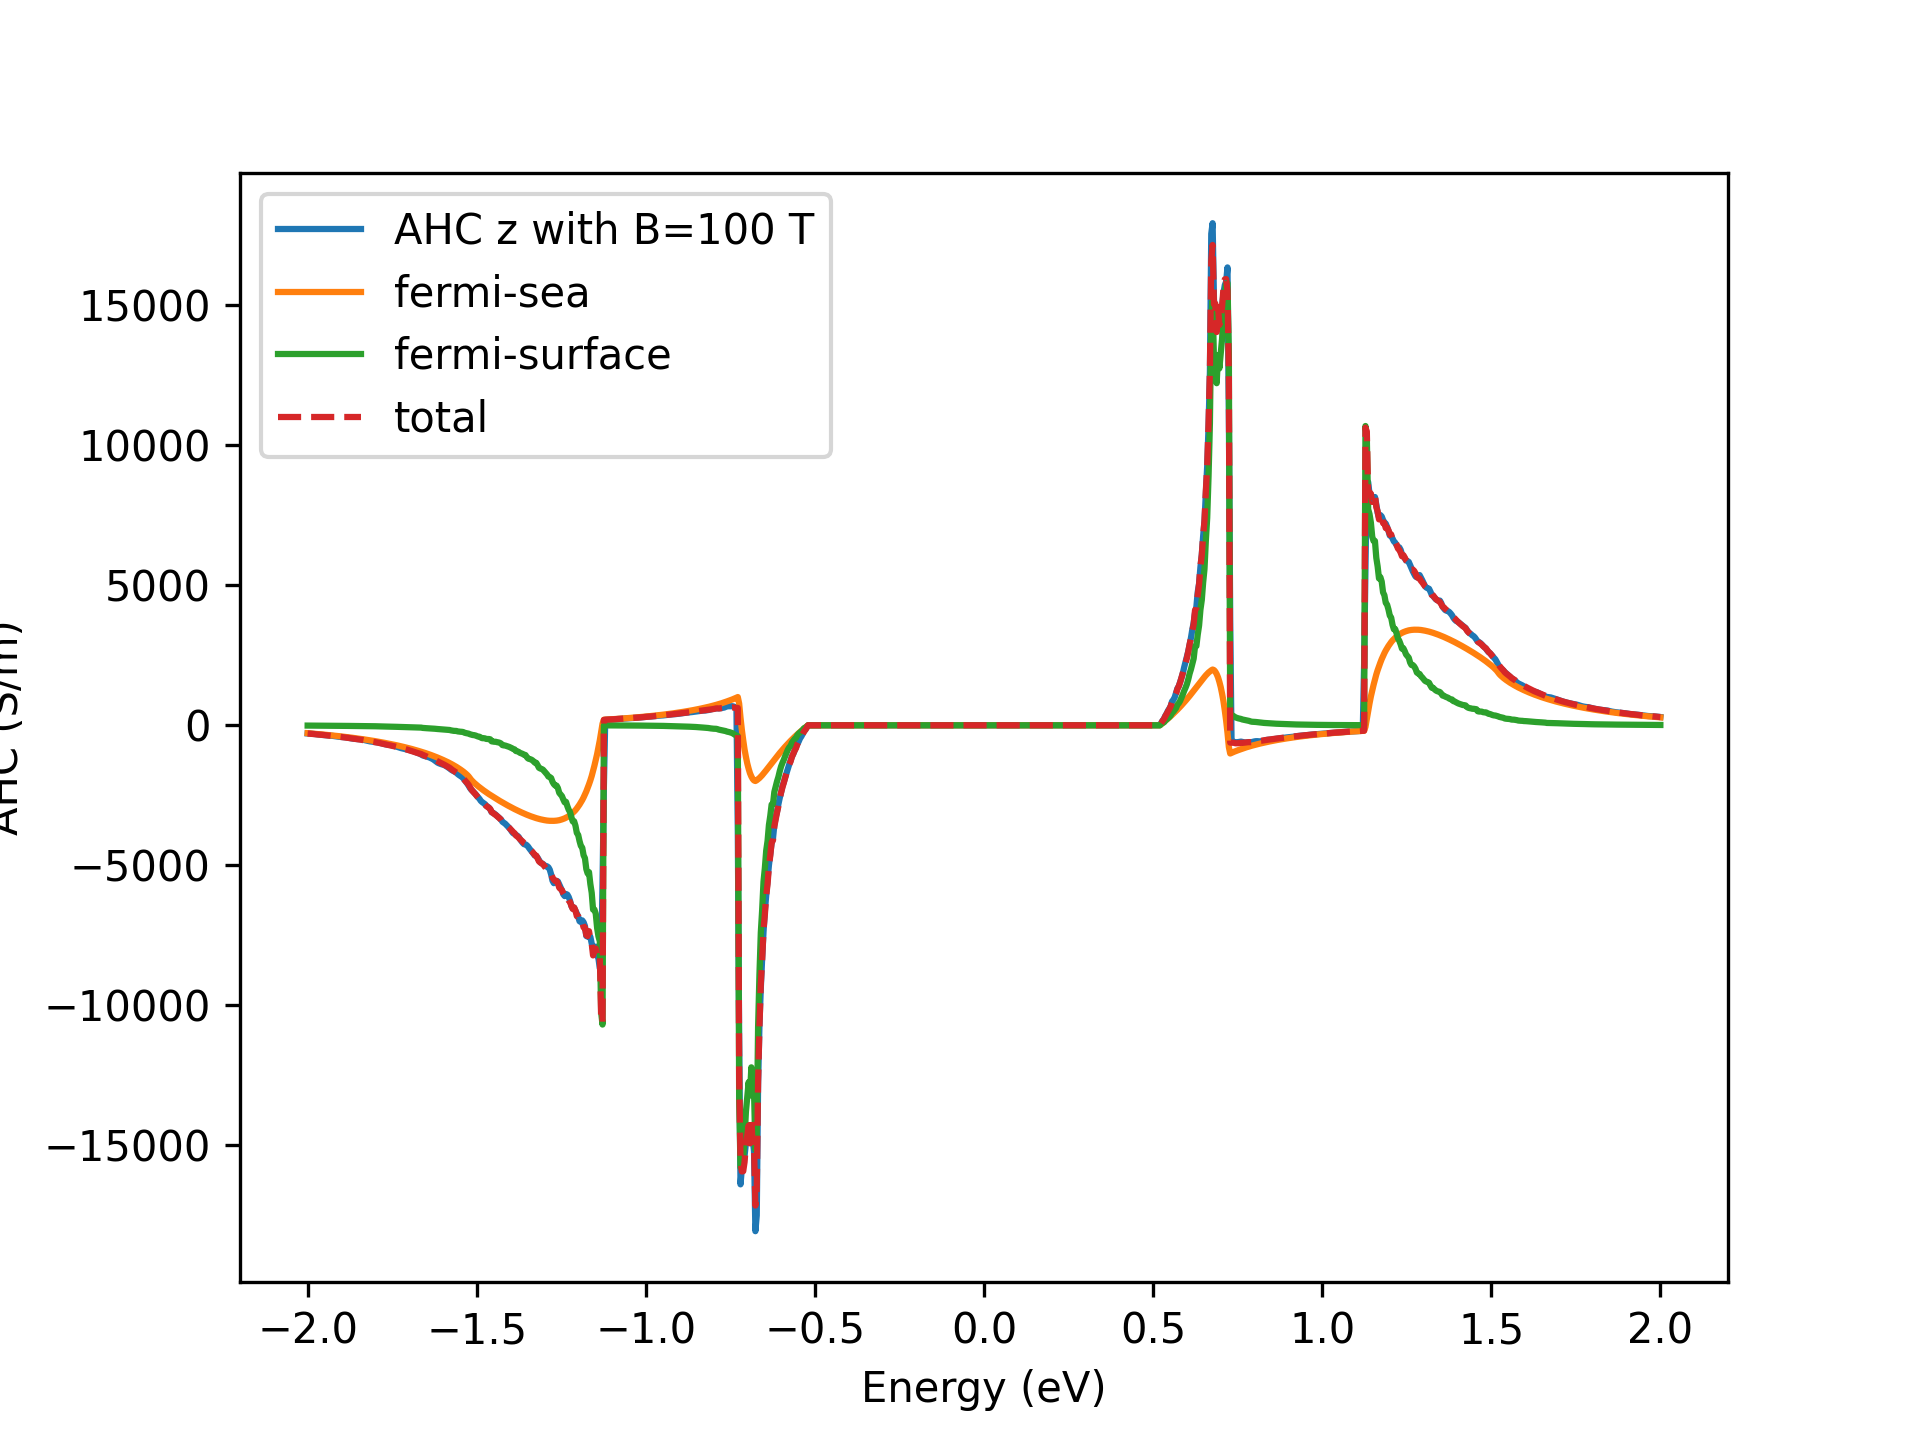
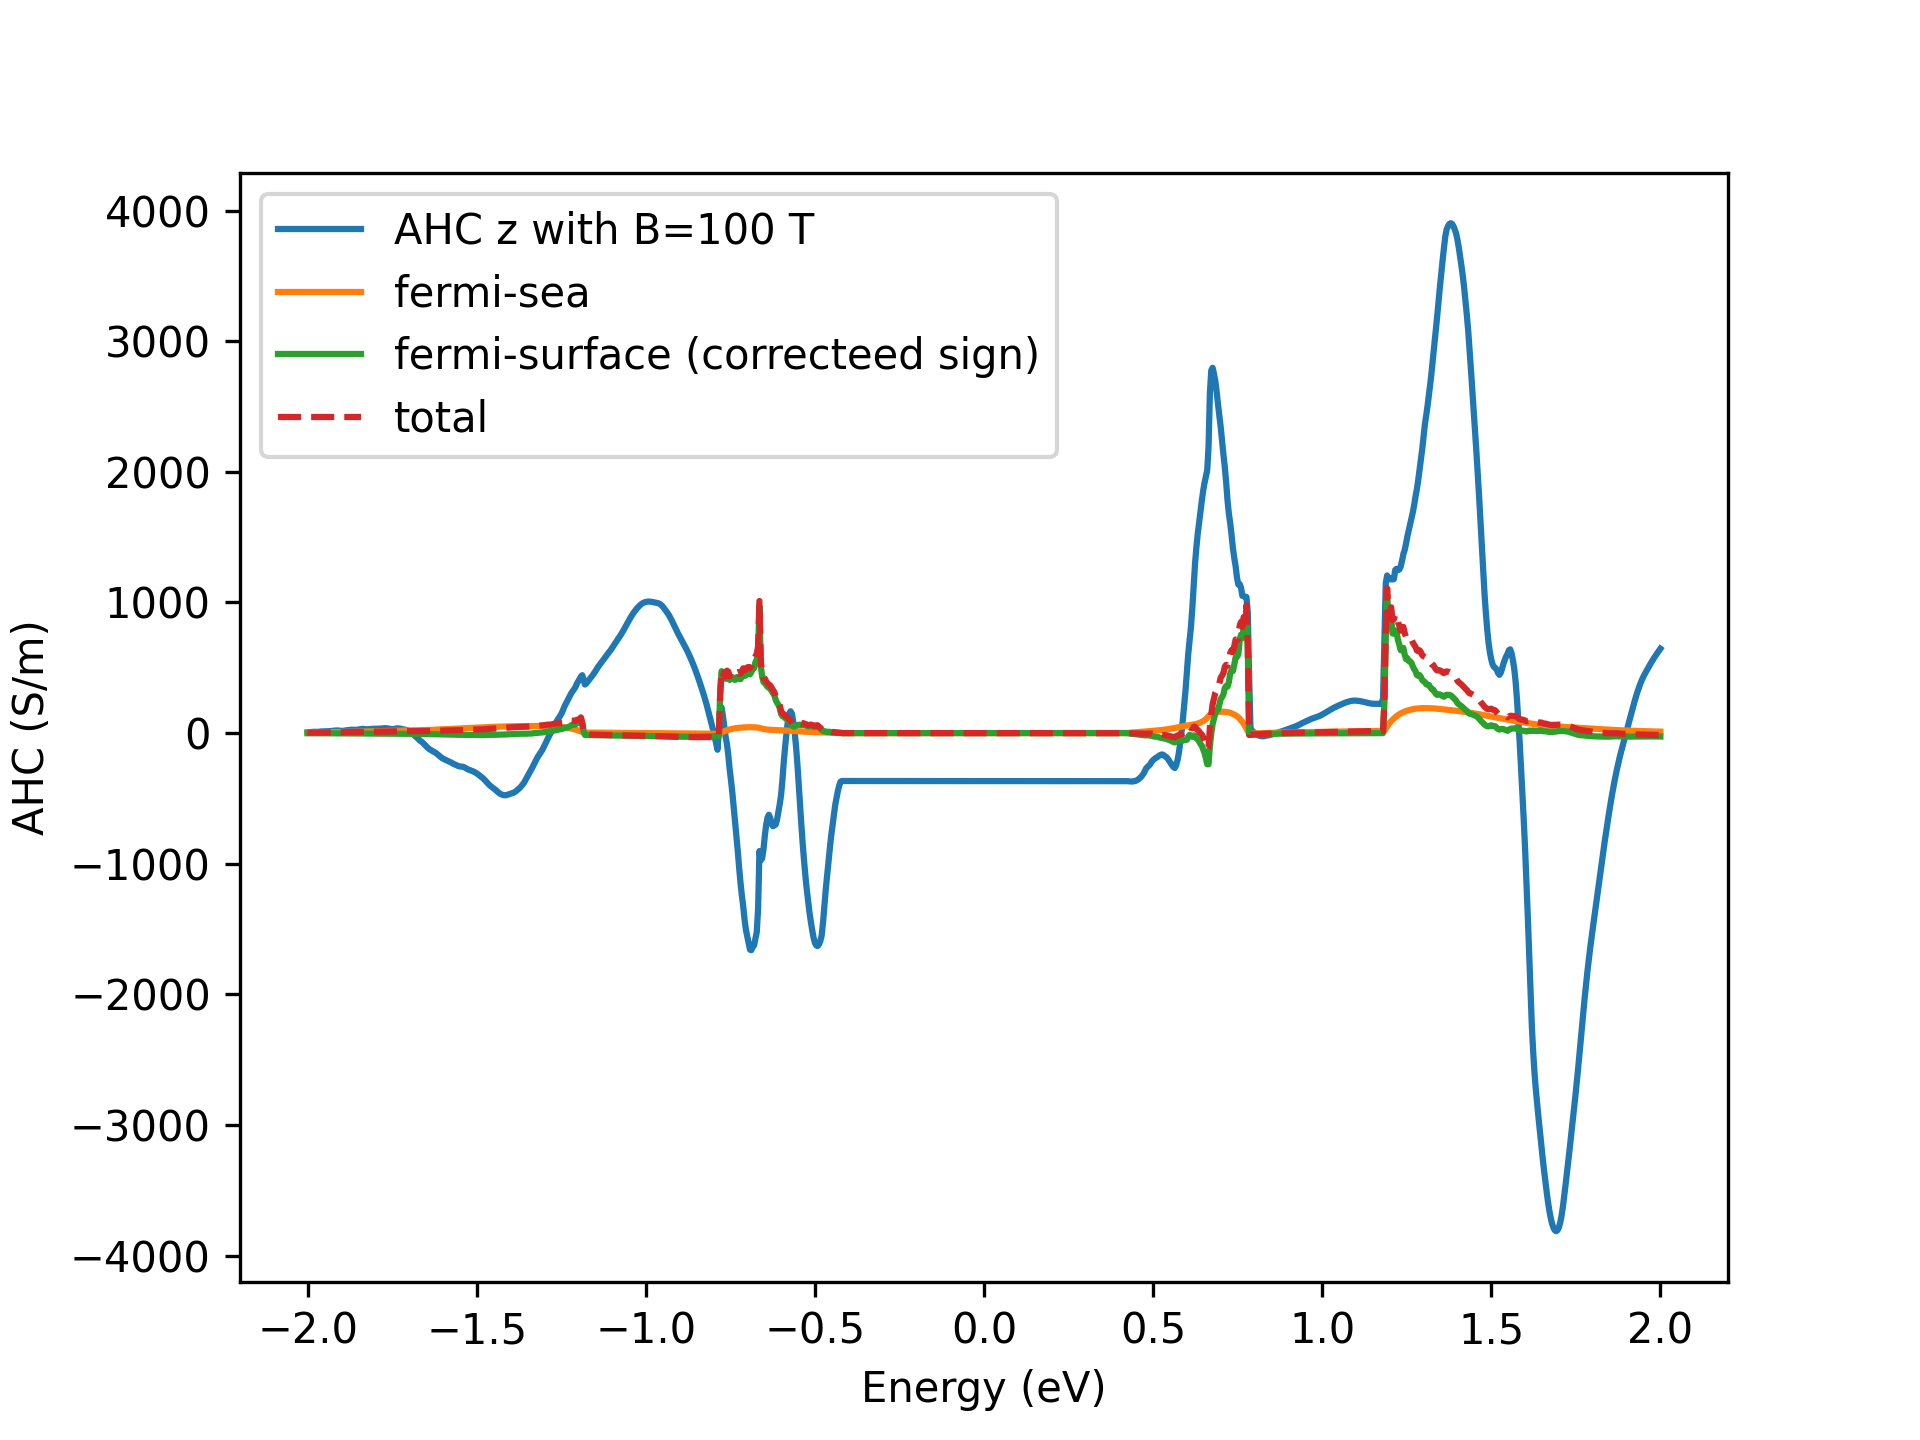
tests against finite field

diff --git a/examples/LFAHE/check_LFAHE_vs_FiniteField.py b/examples/LFAHE/check_LFAHE_vs_FiniteField.py
@@ -1,9 +1,8 @@
 from matplotlib import pyplot as plt
 import ray
 from wannierberri.calculators.static import LFAHE_spin_fsea, AHC_Zeeman_spin, AHC
-from wannierberri import run
+from wannierberri import run, symmetry
 from wannierberri.grid import Grid
-from wannierberri.system import System_R
 import numpy as np
 from wannierberri import factors
 from copy import deepcopy
@@ -11,82 +10,55 @@ from wannierberri.logging import configure_logging
 configure_logging(loglevel="INFO")
 print(f"factor_spin: {factors.factor_spin}")
 ray.init(num_cpus=16)
+symmetry = True
+
+from wannierberri.models import Haldane_ptb_double
 
 
-
-def Haldane_ptb_double(delta=0.2, hop1=-1.0, hop2=0.15, phi=np.pi / 2, soc_term=0):
-    """same as :func:`~wannierberri.models.Haldane_tbm`, but uses `PythTB <http://www.physics.rutgers.edu/pythtb/>`__
-
-    Notes
-    -----
-    PythTB should be installed to use this (`pip install pythtb`)
-    """
-    import pythtb
-    lat = [[1.0, 0.0], [0.5, np.sqrt(3.0) / 2.0]]
-    orb = [[1. / 3., 1. / 3.], [1. / 3., 1. / 3.], [2. / 3., 2. / 3.], [2. / 3., 2. / 3.]]
-    lattice = pythtb.Lattice(lat_vecs=lat, orb_vecs=orb, periodic_dirs=[0, 1])
-    my_model = pythtb.TBModel(lattice)
-    delta = 0.2
-    t2 = hop2 * np.exp(1.j * phi)
-    t2c = t2.conjugate()
-
-    my_model.set_hop(soc_term, 0, 1, [0, 0])
-    my_model.set_hop(soc_term, 2, 3, [0, 0])
-
-    for i, _t2 in enumerate([t2, t2c]):
-        _t2c = _t2.conjugate()
-        my_model.set_onsite([-delta, -delta, delta, delta])
-        my_model.set_hop(hop1, 0 + i, 2 + i, [0, 0])
-        my_model.set_hop(hop1, 2 + i, 0 + i, [1, 0])
-        my_model.set_hop(hop1, 2 + i, 0 + i, [0, 1])
-        my_model.set_hop(_t2, 0 + i, 0 + i, [1, 0])
-        my_model.set_hop(_t2, 2 + i, 2 + i, [1, -1])
-        my_model.set_hop(_t2, 2 + i, 2 + i, [0, 1])
-        my_model.set_hop(_t2c, 2 + i, 2 + i, [1, 0])
-        my_model.set_hop(_t2c, 0 + i, 0 + i, [1, -1])
-        my_model.set_hop(_t2c, 0 + i, 0 + i, [0, 1])
-
-    return my_model
-
-
-model = Haldane_ptb_double(delta=0.2, hop1=-1.0, hop2=0.15, phi=np.pi / 2, soc_term=0.5)
-system = System_R.from_pythtb(model)
-system.set_spin_eigenstates([1, -1, 1, -1])
-system.set_pointgroup(["C3z"])
-
+system = Haldane_ptb_double(delta=0.2, hop1=-1.0, hop2=0.15, phi=np.pi / 2, soc_term=0.3)
 B_tesla = 100
 
 system_magnetic = deepcopy(system)
 system_magnetic.add_Zeemann_spin(B=np.array([0, 0, B_tesla]))
 EFermi = np.linspace(-2, 2, 1001)
 kwargs = dict(Efermi=EFermi, tetra=True)
+kwargs_ext = dict(kwargs_formula=dict(internal_terms=False, external_terms=True), **kwargs)
+kwargs_int = dict(kwargs_formula=dict(internal_terms=True, external_terms=False), **kwargs)
 grid = Grid(system, length=100, NKFFT=(6, 6, 1))
 
 
 calculators_mag = {}
 calculators_nomag = {}
-calculators_mag["AHC"] = AHC(**kwargs)
-calculators_nomag["LFAHE_spin_fsea"] = LFAHE_spin_fsea(**kwargs)
-calculators_nomag["AHC_Zeeman_spin"] = AHC_Zeeman_spin(**kwargs)
+calculators_mag["AHC_int"] = AHC(**kwargs_int)
+calculators_mag["AHC_ext"] = AHC(**kwargs_ext)
+calculators_nomag["LFAHE_spin_fsea_int"] = LFAHE_spin_fsea(**kwargs_int)
+calculators_nomag["LFAHE_spin_fsea_ext"] = LFAHE_spin_fsea(**kwargs_ext)
 
-result_non_magnetic = run(system, grid, calculators=calculators_nomag)
-result_magnetic = run(system_magnetic, grid, calculators=calculators_mag)
+calculators_nomag["AHC_Zeeman_spin_int"] = AHC_Zeeman_spin(**kwargs_int)
+calculators_nomag["AHC_Zeeman_spin_ext"] = AHC_Zeeman_spin(**kwargs_ext)
 
-ahc_Z_fsurf = -result_non_magnetic.results["AHC_Zeeman_spin"].data[:, 2, 2] * B_tesla
-ahc_Z_fsea = result_non_magnetic.results["LFAHE_spin_fsea"].data[:, 2, 2] * B_tesla
-AHC_finiteB = result_magnetic.results["AHC"].data[:, 2]
-
-
+result_non_magnetic = run(system, grid, calculators=calculators_nomag).results
+result_magnetic = run(system_magnetic, grid, calculators=calculators_mag).results
 
 
-plt.plot(EFermi, AHC_finiteB, label=f"AHC z with B={B_tesla} T")
-plt.plot(EFermi, ahc_Z_fsea, label="fermi-sea")
-plt.plot(EFermi, ahc_Z_fsurf, label="fermi-surface (correcteed sign)")
-plt.plot(EFermi, (ahc_Z_fsurf + ahc_Z_fsea), label="total", linestyle="--")
-plt.legend()
-plt.xlabel("Energy (eV)")
-plt.ylabel("AHC (S/m)")
-plt.legend()
 
-plt.savefig("LFAHE_vs_FiniteField.png", dpi=300)
+fig, axes = plt.subplots(2, 1, figsize=(8, 6))
+
+correct_sign_AHC_Z = -1
+
+for ax, term in zip(axes, ["int", "ext"]):
+    ahc_Z_fsurf = correct_sign_AHC_Z * result_non_magnetic[f"AHC_Zeeman_spin_{term}"].data[:, 2, 2] * B_tesla
+    ahc_Z_fsea = result_non_magnetic[f"LFAHE_spin_fsea_{term}"].data[:, 2, 2] * B_tesla
+    AHC_finiteB = result_magnetic[f"AHC_{term}"].data[:, 2]
+    ax.plot(EFermi, AHC_finiteB, label=f"AHC_{term} with B={B_tesla} T")
+    ax.plot(EFermi, ahc_Z_fsea, label=f"fermi-sea {term}")  
+    ax.plot(EFermi, ahc_Z_fsurf, label=f"fermi-surface {term} (corrected sign)")
+    ax.plot(EFermi, (ahc_Z_fsurf + ahc_Z_fsea), label=f"total {term}", linestyle="--")
+    ax.set_title(f"AHC {term}")
+    ax.set_xlabel("Energy (eV)")
+    ax.set_ylabel("AHC (S/m)")
+    ax.legend()
+
+
+plt.savefig(f"LFAHE_vs_FiniteField-symmetry={symmetry}.png", dpi=300)
 plt.show()

diff --git a/tests/test_LFAHE.py b/tests/test_LFAHE.py
@@ -1,0 +1,60 @@
+import pytest
+from wannierberri.calculators.static import LFAHE_spin_fsea, AHC_Zeeman_spin, AHC
+from wannierberri import run
+from wannierberri.grid import Grid
+import numpy as np
+from copy import deepcopy
+from .common import OUTPUT_DIR
+
+from wannierberri.models import Haldane_ptb_double
+plot_result = False  # Set to True to plot the results for visual inspection
+
+
+@pytest.fixture(scope="module")
+def system_Haldane_ptb_double():
+    return Haldane_ptb_double(delta=0.2, hop1=-1.0, hop2=0.15, phi=np.pi / 2, soc_term=0.3)
+
+
+@pytest.mark.parametrize("B_tesla", [10, 50, 100])
+def test_LFAHE_vs_FiniteField(B_tesla, system_Haldane_ptb_double):
+    system = system_Haldane_ptb_double
+    system_magnetic = deepcopy(system)
+    system_magnetic.add_Zeemann_spin(B=np.array([0, 0, B_tesla]))
+    EFermi = np.linspace(-1.8, -1.2, 61)
+    kwargs = dict(Efermi=EFermi, tetra=True)
+    kwargs_ext = dict(kwargs_formula=dict(internal_terms=False, external_terms=True), **kwargs)
+    kwargs_int = dict(kwargs_formula=dict(internal_terms=True, external_terms=False), **kwargs)
+    grid = Grid(system, NK=(60, 60, 1), NKFFT=(6, 6, 1))
+    calculators_mag = {}
+    calculators_nomag = {}
+    calculators_mag["AHC_int"] = AHC(**kwargs_int)
+    calculators_mag["AHC_ext"] = AHC(**kwargs_ext)
+    calculators_nomag["LFAHE_spin_fsea_int"] = LFAHE_spin_fsea(**kwargs_int)
+    calculators_nomag["LFAHE_spin_fsea_ext"] = LFAHE_spin_fsea(**kwargs_ext)
+    calculators_nomag["AHC_Zeeman_spin_int"] = AHC_Zeeman_spin(**kwargs_int)
+    calculators_nomag["AHC_Zeeman_spin_ext"] = AHC_Zeeman_spin(**kwargs_ext)
+    kwargs_run = dict(grid=grid, use_irred_kpt=False, symmetrize=False)  # do not use symmetry because tetrahedron is not very symmetric
+    result_non_magnetic = run(system, calculators=calculators_nomag, **kwargs_run).results
+    result_magnetic = run(system_magnetic, calculators=calculators_mag, **kwargs_run).results
+    correct_sign_AHC_Z = -1.0  # to match the sign of AHC_Zeeman_spin with AHC
+    for term in ["int", "ext"]:
+        ahc_Z_fsurf = correct_sign_AHC_Z * result_non_magnetic[f"AHC_Zeeman_spin_{term}"].data[:, 2, 2]
+        ahc_Z_fsea = result_non_magnetic[f"LFAHE_spin_fsea_{term}"].data[:, 2, 2]
+        AHC_finiteB = result_magnetic[f"AHC_{term}"].data[:, 2]
+        ahc_linear = (ahc_Z_fsurf + ahc_Z_fsea) * B_tesla
+        if plot_result:
+            from matplotlib import pyplot as plt
+            plt.close('all')
+            plt.plot(EFermi, AHC_finiteB, label=f"AHC_{term} with B={B_tesla} T")
+            plt.plot(EFermi, ahc_linear, label=f"LFAHE_{term} with B={B_tesla} T", linestyle="--")
+            plt.plot(EFermi, ahc_Z_fsea * B_tesla, label=f"fermi-sea {term} with B={B_tesla} T", linestyle=":")
+            plt.plot(EFermi, ahc_Z_fsurf * B_tesla, label=f"fermi-surface {term} with B={B_tesla} T", linestyle=":")
+            plt.title(f"AHC {term} comparison for B={B_tesla} T")
+            plt.xlabel("Energy (eV)")
+            plt.ylabel("AHC (S/m)")
+            plt.legend()
+            plt.savefig(f"{OUTPUT_DIR}/AHC_comparison_{term}_B{B_tesla}.png")
+            plt.close()
+        diff = np.max(np.abs(ahc_linear - AHC_finiteB))
+        maxval = np.max(np.abs([ahc_linear, AHC_finiteB]))
+        assert diff < maxval * 2e-2, f"LFAHE and finite B field AHC do not match for term {term} and B={B_tesla} T. The maximum difference is {diff} S/m with maxval={maxval} S/m"

diff --git a/wannierberri/models.py b/wannierberri/models.py
@@ -82,6 +82,60 @@ def Haldane_ptb(delta=0.2, hop1=-1.0, hop2=0.15, phi=np.pi / 2):
     return my_model
 
 
+def Haldane_ptb_double(delta=0.2, hop1=-1.0, hop2=0.15, phi=np.pi / 2, soc_term=0.3):
+    from wannierberri.system import System_R
+    """same as :func:`~wannierberri.models.Haldane_tbm`, but uses `PythTB <http://www.physics.rutgers.edu/pythtb/>`__
+
+    Notes
+    -----
+    PythTB should be installed to use this (`pip install pythtb`)
+    """
+    import pythtb
+    lat = [[1.0, 0.0, 0], [0.5, np.sqrt(3.0) / 2.0, 0], [0, 0, 1]]
+    orb = [[1. / 3., 1. / 3., 0], [1. / 3., 1. / 3., 0], [2. / 3., 2. / 3., 0.2], [2. / 3., 2. / 3., 0.2]]
+    lattice = pythtb.Lattice(lat_vecs=lat, orb_vecs=orb, periodic_dirs=[0, 1])
+    my_model = pythtb.TBModel(lattice)
+    delta = 0.2
+    t2 = hop2 * np.exp(1.j * phi)
+    t2c = t2.conjugate()
+
+    my_model.set_hop(soc_term, 0, 1, [0, 0, 0])
+    my_model.set_hop(soc_term, 2, 3, [0, 0, 0])
+
+    for i, _t2 in enumerate([t2, t2c]):
+        _t2c = _t2.conjugate()
+        my_model.set_onsite([-delta, -delta, delta, delta])
+        my_model.set_hop(hop1, 0 + i, 2 + i, [0, 0, 0])
+        my_model.set_hop(hop1, 2 + i, 0 + i, [1, 0, 0])
+        my_model.set_hop(hop1, 2 + i, 0 + i, [0, 1, 0])
+        my_model.set_hop(_t2, 0 + i, 0 + i, [1, 0, 0])
+        my_model.set_hop(_t2, 2 + i, 2 + i, [1, -1, 0])
+        my_model.set_hop(_t2, 2 + i, 2 + i, [0, 1, 0])
+        my_model.set_hop(_t2c, 2 + i, 2 + i, [1, 0, 0])
+        my_model.set_hop(_t2c, 0 + i, 0 + i, [1, -1, 0])
+        my_model.set_hop(_t2c, 0 + i, 0 + i, [0, 1, 0])
+
+
+
+    system = System_R.from_pythtb(my_model)
+    system.force_internal_terms_only = False
+    system.set_periodic([True, True, False])
+    system.set_spin_eigenstates([1, -1, 1, -1])
+    system.set_fake_AA(exp_decay=1, factor=0.5)
+    # system.set_R_mat('AA', np.random.random((system.rvec.nRvec, 4,4,3)) )
+    A = system.get_R_mat('AA')
+    for i in 0, 2:
+        for j in 1, 3:
+            A[:, i, j] = 0
+            A[:, j, i] = 0
+    for i in 1, 3:
+        for j in 1, 3:
+            A[:, i, j] = A[:, i - 1, j - 1]
+    # system.set_pointgroup(["C3z"])
+    return system
+
+
+
 def Chiral(delta=2, hop1=1, hop2=1 / 3, phi=np.pi / 10, hopz_right=0.0, hopz_left=0.2, hopz_vert=0.0):
     """Create a chiral model  - a chirally stacked haldane model -
        using `PythTB <http://www.physics.rutgers.edu/pythtb/>`__

diff --git a/wannierberri/system/system_R.py b/wannierberri/system/system_R.py
@@ -9,7 +9,7 @@ from ..symmetry.point_symmetry import PointGroup
 from ..utility import clear_cached, one2three, pauli_xyz
 from .system import System, num_cart_dim
 from ..fourier.rvectors import Rvectors
-from ..factors import factor_spin
+from ..factors import bohr, factor_spin
 import copy
 import logging
 logger = logging.getLogger(__name__)
@@ -1213,6 +1213,19 @@ class System_R(System):
                 XX_R_new = XX_R_new.conj() * parity_TR[key]
             self.set_R_mat(key, XX_R_new, reset=True)
         return self
+
+    def set_fake_AA(self, reset=False, factor=1, exp_decay=bohr, decay_function=None):
+        if decay_function is None:
+            decay_function = lambda r: r * np.exp(-r / exp_decay)
+        Ham = self.get_R_mat('Ham')
+        weights = factor * decay_function(np.linalg.norm(self.rvec.cRvec_shifted, axis=-1)) * np.abs(Ham) / np.max(np.abs(Ham))
+        onsite = self.get_R_mat('Ham')[self.rvec.iR0, self.range_wann, self.range_wann]
+        fakeAA = self.rvec.cRvec_shifted * (onsite[None, :, None, None] - onsite[None, None, :, None]) * weights[:, :, :, None]
+        fakeAA_conj = self.rvec.conj_XX_R(fakeAA)
+        # fakeAA = 0.5 * (fakeAA + fakeAA_conj)
+        assert np.allclose(fakeAA_conj, fakeAA), "fakeAA is not hermitian"
+        self.set_R_mat('AA', fakeAA, reset=reset)
+        self.force_internal_terms_only = False
 
 
 def get_nonperiodic_normal(real_lattice):

diff --git a/wannierberri/fourier/rvectors.py b/wannierberri/fourier/rvectors.py
@@ -405,6 +405,7 @@ class Rvectors:
     def shifts_diff_red(self):
         return -self.shifts_left_red[:, np.newaxis] + self.shifts_right_red[np.newaxis, :]
 
+
     @cached_property
     def shifts_diff_cart(self):
         return -self.shifts_left_cart[:, np.newaxis] + self.shifts_right_cart[np.newaxis, :]
